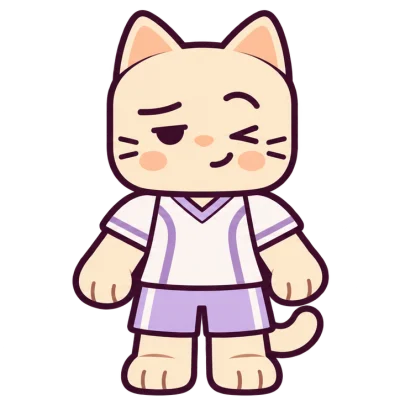
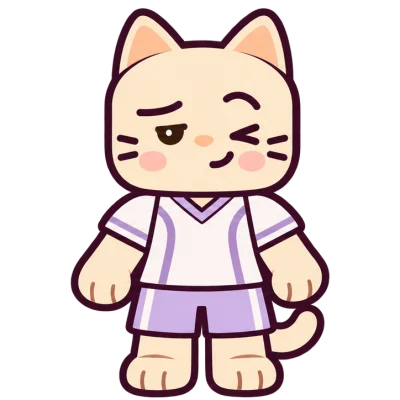
Make dodge controls easier and list the circuit game throughout

diff --git a/dodgeball/dodgeball.js b/dodgeball/dodgeball.js
@@ -17,6 +17,8 @@
   const catScore = document.querySelector('#cat-score');
   const catHitsOutput = document.querySelector('#cat-hits');
   const dodgeZone = document.querySelector('#dodge-zone');
+  const dodgeCue = document.querySelector('#dodge-cue');
+  const dodgeDuration = 1850;
   const landing = document.querySelector('#landing');
   const paw = document.querySelector('#paw-position');
   const modeButtons = document.querySelectorAll('[data-mode]');
@@ -81,7 +83,8 @@
 
   function renderGuide() {
     if (phase === 'dodge') {
-      guide.textContent = say("Cat’s turn! Swipe left or right to dodge, or use ← →.", 'ねこの番！ 左右にスワイプか、← → でよけよう。');
+      dodgeCue.textContent = say('DODGE!  ←  →', 'よけて！  ←  →');
+      guide.textContent = say("Cat’s turn! Swipe or tap either side to dodge. Keyboard: ← →.", 'ねこの番！ 横にスワイプ、または左右をタップ。キーなら ← →。');
     } else if (phase === 'between') {
       guide.textContent = dodgeResult === 'safe' ? say('Nice dodge!', 'よけた！') : say('Cat scores!', 'ねこに1点！');
     } else {
@@ -93,7 +96,7 @@
 
   function dodge(direction) {
     if (phase !== 'dodge') return;
-    playerPosition = clamp(playerPosition + direction * 27, 23, 77);
+    playerPosition = direction < 0 ? 23 : 77;
     paw.style.left = playerPosition + '%';
   }
 
@@ -121,11 +124,11 @@
     const flight = ball.animate([
       { transform: `translate(${from}px, ${-height * .37}px) scale(.43)` },
       { transform: `translate(${to}px, 0) scale(.93)` }
-    ], { duration: 1250, easing: 'ease-in', fill: 'both' });
+    ], { duration: dodgeDuration, easing: 'ease-in', fill: 'both' });
     if (reducedMotion.matches) {
       flight.pause();
       flight.currentTime = 0;
-      await delay(1250);
+      await delay(dodgeDuration);
     } else await flight.finished;
     const hit = Math.abs(destination - playerPosition) < 12;
     phase = 'between';
@@ -280,15 +283,20 @@
   }
   dodgeButtons.forEach(button => button.addEventListener('click', () => dodge(Number(button.dataset.dodge))));
   dodgeZone.addEventListener('pointerdown', event => {
-    if (!event.isPrimary || event.target.closest('button')) return;
-    dodgeOrigin = { x: event.clientX, id: event.pointerId };
+    if (!event.isPrimary || event.button !== 0 || event.target.closest('button')) return;
+    dodgeOrigin = { x: event.clientX, id: event.pointerId, moved: false };
     dodgeZone.setPointerCapture(event.pointerId);
+    // A tap on either side works immediately, including on touch screens.
+    const rect = dodgeZone.getBoundingClientRect();
+    const location = (event.clientX - rect.left) / rect.width;
+    if (location < .4 || location > .6) dodge(location < .5 ? -1 : 1);
   });
-  dodgeZone.addEventListener('pointerup', event => {
-    if (dodgeOrigin?.id !== event.pointerId) return;
+  dodgeZone.addEventListener('pointermove', event => {
+    if (dodgeOrigin?.id !== event.pointerId || dodgeOrigin.moved) return;
     const distance = event.clientX - dodgeOrigin.x;
-    dodgeOrigin = null;
-    if (Math.abs(distance) >= 18) dodge(Math.sign(distance));
+    if (Math.abs(distance) < 12) return;
+    dodgeOrigin.moved = true;
+    dodge(Math.sign(distance));
   });
   dodgeZone.addEventListener('lostpointercapture', () => { dodgeOrigin = null; });
   document.addEventListener('keydown', event => {

diff --git a/dodgeball/index.html b/dodgeball/index.html
@@ -5,11 +5,11 @@
 <meta name="viewport" content="width=device-width,initial-scale=1">
 <title data-en-title="MOMO Dodgeball">MOMO ドッジボール</title>
 <link rel="stylesheet" href="../language.css">
-<link rel="stylesheet" href="dodgeball.css?v=match">
+<link rel="stylesheet" href="dodgeball.css?v=dodge-controls">
 <script defer src="../language.js"></script>
 <script defer src="../nickname.js?v=compact"></script>
 <link rel="stylesheet" href="../nickname.css?v=compact">
-<script defer src="dodgeball.js?v=match"></script>
+<script defer src="dodgeball.js?v=dodge-controls"></script>
 </head>
 <body>
 <main>
@@ -28,9 +28,9 @@
     <div class="score"><span data-ja="ヒット">Hits</span> <strong id="hits">0</strong> <span aria-hidden="true">·</span> <span data-ja="のこり">Left</span> <strong id="left">5</strong><span id="cat-score" hidden> · <span data-ja="ねこ">Cat</span> <strong id="cat-hits">0</strong></span></div>
     <div class="opponent" aria-hidden="true">
       <img src="cat.webp" alt="" draggable="false">
-      <img class="hit-face" data-face="squint" src="cat-squint.webp?v=avatar" alt="" draggable="false">
-      <img class="hit-face" data-face="surprised" src="cat-surprised.webp?v=avatar" alt="" draggable="false">
-      <img class="hit-face" data-face="dizzy" src="cat-dizzy.webp?v=avatar" alt="" draggable="false">
+      <img class="hit-face" data-face="squint" src="cat-squint.webp?v=catchlights" alt="" draggable="false">
+      <img class="hit-face" data-face="surprised" src="cat-surprised.webp?v=catchlights" alt="" draggable="false">
+      <img class="hit-face" data-face="dizzy" src="cat-dizzy.webp?v=catchlights" alt="" draggable="false">
       <div class="impact">
         <i class="glasses"></i>
         <div class="star-burst">
@@ -43,6 +43,7 @@
     <div class="aim" hidden aria-hidden="true"></div>
     <button id="ball" class="ball" type="button" aria-label="Throw the ball" data-ja-label="ボールを投げる" aria-describedby="guide"></button>
     <div id="dodge-zone" class="dodge-zone" hidden>
+      <span id="dodge-cue" class="dodge-cue" aria-hidden="true"></span>
       <div id="landing" class="landing" aria-hidden="true"></div>
       <div id="paw-position" class="paw-position" aria-hidden="true">🐾</div>
       <button type="button" data-dodge="-1" aria-label="Dodge left" data-ja-label="左によける">‹</button>

diff --git a/flow/index.html b/flow/index.html
@@ -88,7 +88,8 @@
     <a class="picker-flow" aria-current="page" href="./"><svg class="game-art" viewBox="0 0 64 64" aria-hidden="true"><rect x="6" y="6" width="52" height="52" rx="12" fill="#eaf7ff"/><path d="M20 44V20h24" fill="none" stroke="#f272a7" stroke-width="7" stroke-linecap="round"/><circle cx="20" cy="44" r="6.5" fill="#f272a7"/><circle cx="44" cy="20" r="6.5" fill="#f272a7"/><path d="M44 44H28" stroke="#58cf9e" stroke-width="7" stroke-linecap="round"/><circle cx="44" cy="44" r="6.5" fill="#58cf9e"/><circle cx="28" cy="44" r="6.5" fill="#58cf9e"/></svg><span data-en="Flow">フローパズル</span></a>
     <a class="picker-bath" href="../bun-lights/"><img class="game-art" src="../assets/game-bun.png" alt="" width="42" height="42"><span data-en="Bun Lights">肉まんライト</span></a>
     <a class="picker-piano" href="../clicky-keys/"><span class="game-art" aria-hidden="true">⌨</span><span data-en="Clicky Keys">カチカチキー</span></a>
-  </nav>
+    <a href="../switch-shine/"><span class="game-art" aria-hidden="true">⚡</span><span data-en="Switch &amp; Shine">ピカッとスイッチ</span></a>
+</nav>
 </main>
 <footer class="feedback"><a href="../sticker-book/" data-sticker-link>✦ Sticker Book</a><a href="https://clubs.place/f/fS6twrevaLxr9ZI38eKpOUpW" target="_blank" rel="noopener noreferrer" data-en="Send feedback">感想をおくる</a><small>Copyright Momo.squirrels</small></footer>
 </body>

diff --git a/lights-out/index.html b/lights-out/index.html
@@ -88,7 +88,8 @@
     <a class="picker-flow" href="../flow/"><svg class="game-art" viewBox="0 0 64 64" aria-hidden="true"><rect x="6" y="6" width="52" height="52" rx="12" fill="#eaf7ff"/><path d="M20 44V20h24" fill="none" stroke="#f272a7" stroke-width="7" stroke-linecap="round"/><circle cx="20" cy="44" r="6.5" fill="#f272a7"/><circle cx="44" cy="20" r="6.5" fill="#f272a7"/><path d="M44 44H28" stroke="#58cf9e" stroke-width="7" stroke-linecap="round"/><circle cx="44" cy="44" r="6.5" fill="#58cf9e"/><circle cx="28" cy="44" r="6.5" fill="#58cf9e"/></svg><span data-en="Flow">フローパズル</span></a>
     <a class="picker-bath" href="../bun-lights/"><img class="game-art" src="../assets/game-bun.png" alt="" width="42" height="42"><span data-en="Bun Lights">肉まんライト</span></a>
     <a class="picker-piano" href="../clicky-keys/"><span class="game-art" aria-hidden="true">⌨</span><span data-en="Clicky Keys">カチカチキー</span></a>
-  </nav>
+    <a href="../switch-shine/"><span class="game-art" aria-hidden="true">⚡</span><span data-en="Switch &amp; Shine">ピカッとスイッチ</span></a>
+</nav>
 </main>
 <footer class="feedback"><a href="../sticker-book/" data-sticker-link>✦ Sticker Book</a><a href="https://clubs.place/f/fS6twrevaLxr9ZI38eKpOUpW" target="_blank" rel="noopener noreferrer" data-en="Send feedback">感想をおくる</a><small>Copyright Momo.squirrels</small></footer>
 </body>

diff --git a/quoridor/index.html b/quoridor/index.html
@@ -89,7 +89,8 @@
     <a class="picker-flow" href="../flow/"><svg class="game-art" viewBox="0 0 64 64" aria-hidden="true"><rect x="6" y="6" width="52" height="52" rx="12" fill="#eaf7ff"/><path d="M20 44V20h24" fill="none" stroke="#f272a7" stroke-width="7" stroke-linecap="round"/><circle cx="20" cy="44" r="6.5" fill="#f272a7"/><circle cx="44" cy="20" r="6.5" fill="#f272a7"/><path d="M44 44H28" stroke="#58cf9e" stroke-width="7" stroke-linecap="round"/><circle cx="44" cy="44" r="6.5" fill="#58cf9e"/><circle cx="28" cy="44" r="6.5" fill="#58cf9e"/></svg><span data-en="Flow">フローパズル</span></a>
     <a class="picker-bath" href="../bun-lights/"><img class="game-art" src="../assets/game-bun.png" alt="" width="42" height="42"><span data-en="Bun Lights">肉まんライト</span></a>
     <a class="picker-piano" href="../clicky-keys/"><span class="game-art" aria-hidden="true">⌨</span><span data-en="Clicky Keys">カチカチキー</span></a>
-  </nav>
+    <a href="../switch-shine/"><span class="game-art" aria-hidden="true">⚡</span><span data-en="Switch &amp; Shine">ピカッとスイッチ</span></a>
+</nav>
 </main>
 <footer class="feedback"><a href="../sticker-book/" data-sticker-link>✦ Sticker Book</a><a href="https://clubs.place/f/fS6twrevaLxr9ZI38eKpOUpW" target="_blank" rel="noopener noreferrer" data-en="Send feedback">感想をおくる</a><small>Copyright Momo.squirrels</small></footer>
 </body>

diff --git a/capybara-merge/index.html b/capybara-merge/index.html
@@ -112,6 +112,7 @@
     <a class="picker-flow" href="../flow/"><svg class="game-art" viewBox="0 0 64 64" aria-hidden="true"><rect x="6" y="6" width="52" height="52" rx="12" fill="#eaf7ff"/><path d="M20 44V20h24" fill="none" stroke="#f272a7" stroke-width="7" stroke-linecap="round"/><circle cx="20" cy="44" r="6.5" fill="#f272a7"/><circle cx="44" cy="20" r="6.5" fill="#f272a7"/><path d="M44 44H28" stroke="#58cf9e" stroke-width="7" stroke-linecap="round"/><circle cx="44" cy="44" r="6.5" fill="#58cf9e"/><circle cx="28" cy="44" r="6.5" fill="#58cf9e"/></svg><span data-en="Flow">フローパズル</span></a>
       <a class="picker-bath" href="../bun-lights/"><img class="game-art" src="../assets/game-bun.png" alt="" width="42" height="42"><span data-en="Bun Lights">肉まんライト</span></a>
     <a class="picker-piano" href="../clicky-keys/"><span class="game-art" aria-hidden="true">⌨</span><span data-en="Clicky Keys">カチカチキー</span></a>
+  <a href="../switch-shine/"><span class="game-art" aria-hidden="true">⚡</span><span data-en="Switch &amp; Shine">ピカッとスイッチ</span></a>
 </nav>
 </main>
 <footer class="feedback"><a href="../sticker-book/" data-sticker-link>✦ Sticker Book</a><a href="https://clubs.place/f/fS6twrevaLxr9ZI38eKpOUpW" target="_blank" rel="noopener noreferrer" data-en="Send feedback">感想をおくる</a><small>Copyright Momo.squirrels</small></footer>

diff --git a/capybara-tap/index.html b/capybara-tap/index.html
@@ -100,6 +100,7 @@
     <a class="picker-flow" href="../flow/"><svg class="game-art" viewBox="0 0 64 64" aria-hidden="true"><rect x="6" y="6" width="52" height="52" rx="12" fill="#eaf7ff"/><path d="M20 44V20h24" fill="none" stroke="#f272a7" stroke-width="7" stroke-linecap="round"/><circle cx="20" cy="44" r="6.5" fill="#f272a7"/><circle cx="44" cy="20" r="6.5" fill="#f272a7"/><path d="M44 44H28" stroke="#58cf9e" stroke-width="7" stroke-linecap="round"/><circle cx="44" cy="44" r="6.5" fill="#58cf9e"/><circle cx="28" cy="44" r="6.5" fill="#58cf9e"/></svg><span data-en="Flow">フローパズル</span></a>
       <a class="picker-bath" href="../bun-lights/"><img class="game-art" src="../assets/game-bun.png" alt="" width="42" height="42"><span data-en="Bun Lights">肉まんライト</span></a>
     <a class="picker-piano" href="../clicky-keys/"><span class="game-art" aria-hidden="true">⌨</span><span data-en="Clicky Keys">カチカチキー</span></a>
+  <a href="../switch-shine/"><span class="game-art" aria-hidden="true">⚡</span><span data-en="Switch &amp; Shine">ピカッとスイッチ</span></a>
 </nav>
 </main>
 <footer class="feedback"><a href="../sticker-book/" data-sticker-link>✦ Sticker Book</a><a href="https://clubs.place/f/fS6twrevaLxr9ZI38eKpOUpW" target="_blank" rel="noopener noreferrer" data-en="Send feedback">感想をおくる</a><small>Copyright Momo.squirrels</small></footer>

diff --git a/cat-trap/index.html b/cat-trap/index.html
@@ -103,6 +103,7 @@
     <a class="picker-flow" href="../flow/"><svg class="game-art" viewBox="0 0 64 64" aria-hidden="true"><rect x="6" y="6" width="52" height="52" rx="12" fill="#eaf7ff"/><path d="M20 44V20h24" fill="none" stroke="#f272a7" stroke-width="7" stroke-linecap="round"/><circle cx="20" cy="44" r="6.5" fill="#f272a7"/><circle cx="44" cy="20" r="6.5" fill="#f272a7"/><path d="M44 44H28" stroke="#58cf9e" stroke-width="7" stroke-linecap="round"/><circle cx="44" cy="44" r="6.5" fill="#58cf9e"/><circle cx="28" cy="44" r="6.5" fill="#58cf9e"/></svg><span data-en="Flow">フローパズル</span></a>
       <a class="picker-bath" href="../bun-lights/"><img class="game-art" src="../assets/game-bun.png" alt="" width="42" height="42"><span data-en="Bun Lights">肉まんライト</span></a>
     <a class="picker-piano" href="../clicky-keys/"><span class="game-art" aria-hidden="true">⌨</span><span data-en="Clicky Keys">カチカチキー</span></a>
+  <a href="../switch-shine/"><span class="game-art" aria-hidden="true">⚡</span><span data-en="Switch &amp; Shine">ピカッとスイッチ</span></a>
 </nav>
 </main>
 <footer class="feedback"><a href="../sticker-book/" data-sticker-link>✦ Sticker Book</a><a href="https://clubs.place/f/fS6twrevaLxr9ZI38eKpOUpW" target="_blank" rel="noopener noreferrer" data-en="Send feedback">感想をおくる</a><small>Copyright Momo.squirrels</small></footer>

diff --git a/capybara-memory/index.html b/capybara-memory/index.html
@@ -85,6 +85,7 @@
     <a class="picker-flow" href="../flow/"><svg class="game-art" viewBox="0 0 64 64" aria-hidden="true"><rect x="6" y="6" width="52" height="52" rx="12" fill="#eaf7ff"/><path d="M20 44V20h24" fill="none" stroke="#f272a7" stroke-width="7" stroke-linecap="round"/><circle cx="20" cy="44" r="6.5" fill="#f272a7"/><circle cx="44" cy="20" r="6.5" fill="#f272a7"/><path d="M44 44H28" stroke="#58cf9e" stroke-width="7" stroke-linecap="round"/><circle cx="44" cy="44" r="6.5" fill="#58cf9e"/><circle cx="28" cy="44" r="6.5" fill="#58cf9e"/></svg><span data-en="Flow">フローパズル</span></a>
       <a class="picker-bath" href="../bun-lights/"><img class="game-art" src="../assets/game-bun.png" alt="" width="42" height="42"><span data-en="Bun Lights">肉まんライト</span></a>
     <a class="picker-piano" href="../clicky-keys/"><span class="game-art" aria-hidden="true">⌨</span><span data-en="Clicky Keys">カチカチキー</span></a>
+  <a href="../switch-shine/"><span class="game-art" aria-hidden="true">⚡</span><span data-en="Switch &amp; Shine">ピカッとスイッチ</span></a>
 </nav>
 </main>
 <footer class="feedback"><a href="../sticker-book/" data-sticker-link>✦ Sticker Book</a><a href="https://clubs.place/f/fS6twrevaLxr9ZI38eKpOUpW" target="_blank" rel="noopener noreferrer" data-en="Send feedback">感想をおくる</a><small>Copyright Momo.squirrels</small></footer>

diff --git a/glasses-cat/index.html b/glasses-cat/index.html
@@ -53,6 +53,7 @@
     <a class="picker-flow" href="../flow/"><svg class="game-art" viewBox="0 0 64 64" aria-hidden="true"><rect x="6" y="6" width="52" height="52" rx="12" fill="#eaf7ff"/><path d="M20 44V20h24" fill="none" stroke="#f272a7" stroke-width="7" stroke-linecap="round"/><circle cx="20" cy="44" r="6.5" fill="#f272a7"/><circle cx="44" cy="20" r="6.5" fill="#f272a7"/><path d="M44 44H28" stroke="#58cf9e" stroke-width="7" stroke-linecap="round"/><circle cx="44" cy="44" r="6.5" fill="#58cf9e"/><circle cx="28" cy="44" r="6.5" fill="#58cf9e"/></svg><span data-en="Flow">フローパズル</span></a>
     <a class="picker-bath" href="../bun-lights/"><img class="game-art" src="../assets/game-bun.png" alt="" width="42" height="42"><span data-ja="肉まんライト">Bun Lights</span></a>
     <a class="picker-piano" href="../clicky-keys/"><span class="game-art" aria-hidden="true">⌨</span><span data-ja="カチカチキー">Clicky Keys</span></a>
+  <a href="../switch-shine/"><span class="game-art" aria-hidden="true">⚡</span><span data-en="Switch &amp; Shine">ピカッとスイッチ</span></a>
 </nav>
 </main>
 <footer class="feedback"><a href="../sticker-book/" data-sticker-link>✦ Sticker Book</a><a href="https://clubs.place/f/fS6twrevaLxr9ZI38eKpOUpW" target="_blank" rel="noopener noreferrer" data-ja="感想をおくる">Send feedback</a>

diff --git a/smiley-bun-catch/index.html b/smiley-bun-catch/index.html
@@ -68,6 +68,7 @@
     <a class="picker-flow" href="../flow/"><svg class="game-art" viewBox="0 0 64 64" aria-hidden="true"><rect x="6" y="6" width="52" height="52" rx="12" fill="#eaf7ff"/><path d="M20 44V20h24" fill="none" stroke="#f272a7" stroke-width="7" stroke-linecap="round"/><circle cx="20" cy="44" r="6.5" fill="#f272a7"/><circle cx="44" cy="20" r="6.5" fill="#f272a7"/><path d="M44 44H28" stroke="#58cf9e" stroke-width="7" stroke-linecap="round"/><circle cx="44" cy="44" r="6.5" fill="#58cf9e"/><circle cx="28" cy="44" r="6.5" fill="#58cf9e"/></svg><span data-en="Flow">フローパズル</span></a>
     <a class="picker-bath" href="../bun-lights/"><img class="game-art" src="../assets/game-bun.png" alt="" width="42" height="42"><span data-ja="肉まんライト">Bun Lights</span></a>
     <a class="picker-piano" href="../clicky-keys/"><span class="game-art" aria-hidden="true">⌨</span><span data-ja="カチカチキー">Clicky Keys</span></a>
+  <a href="../switch-shine/"><span class="game-art" aria-hidden="true">⚡</span><span data-en="Switch &amp; Shine">ピカッとスイッチ</span></a>
 </nav>
 </main>
 <footer class="feedback"><a href="../sticker-book/" data-sticker-link>✦ Sticker Book</a><a href="https://clubs.place/f/fS6twrevaLxr9ZI38eKpOUpW" target="_blank" rel="noopener noreferrer" data-ja="感想をおくる">Send feedback</a>

diff --git a/piano/index.html b/piano/index.html
@@ -79,6 +79,7 @@
     <a class="picker-flow" href="../flow/"><svg class="game-art" viewBox="0 0 64 64" aria-hidden="true"><rect x="6" y="6" width="52" height="52" rx="12" fill="#eaf7ff"/><path d="M20 44V20h24" fill="none" stroke="#f272a7" stroke-width="7" stroke-linecap="round"/><circle cx="20" cy="44" r="6.5" fill="#f272a7"/><circle cx="44" cy="20" r="6.5" fill="#f272a7"/><path d="M44 44H28" stroke="#58cf9e" stroke-width="7" stroke-linecap="round"/><circle cx="44" cy="44" r="6.5" fill="#58cf9e"/><circle cx="28" cy="44" r="6.5" fill="#58cf9e"/></svg><span data-en="Flow">フローパズル</span></a>
       <a class="picker-bath" href="../bun-lights/"><img class="game-art" src="../assets/game-bun.png" alt="" width="42" height="42"><span data-ja="肉まんライト">Bun Lights</span></a>
     <a class="picker-piano" href="../clicky-keys/"><span class="game-art" aria-hidden="true">⌨</span><span data-ja="カチカチキー">Clicky Keys</span></a>
+  <a href="../switch-shine/"><span class="game-art" aria-hidden="true">⚡</span><span data-en="Switch &amp; Shine">ピカッとスイッチ</span></a>
 </nav>
 <details class="momo-nickname-panel" data-nickname-panel>
   <summary>Set nickname</summary>
